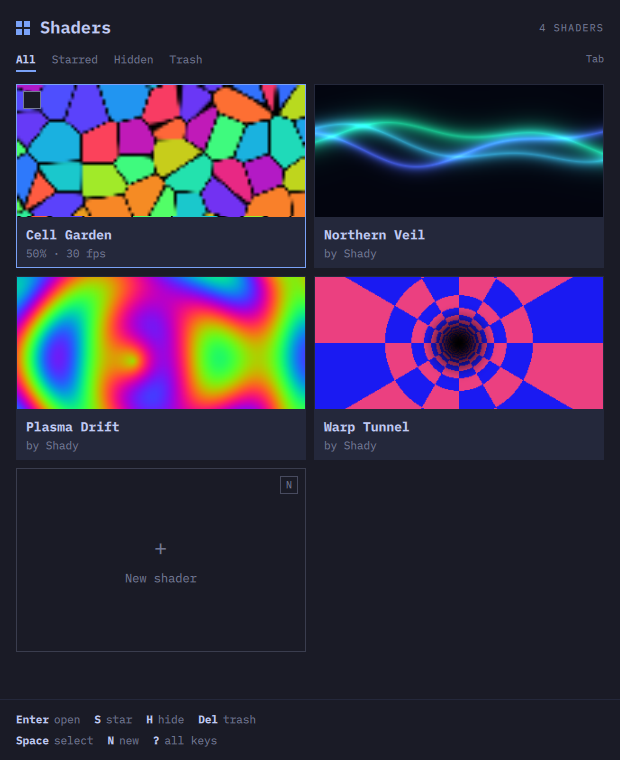
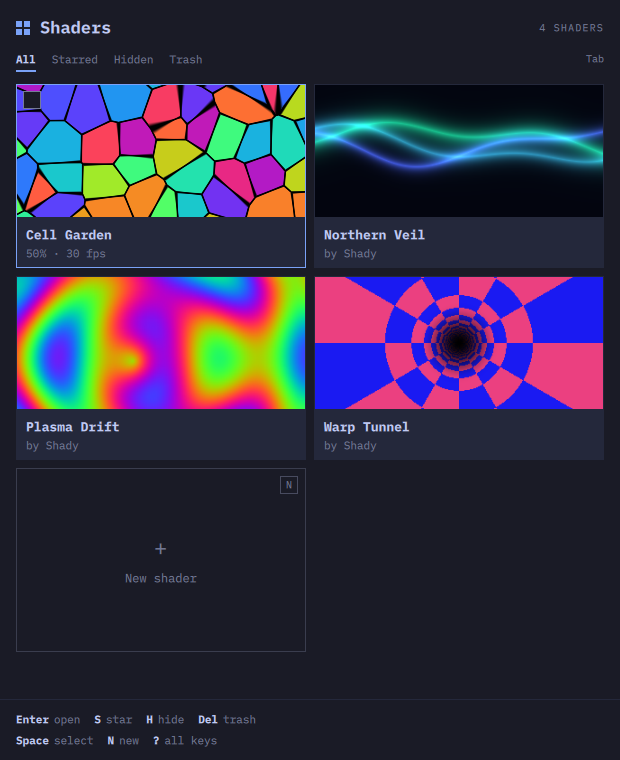
Doc shots: render the focused card at full quality with no hover, so docs/list.png is sharp

Changed region(s): [[0.0306, 0.0908, 0.4903, 0.3026], [0.2145, 0.2724, 0.2452, 0.3026], [0.0306, 0.1211, 0.0613, 0.1513]]

diff --git a/qml/Main.qml b/qml/Main.qml
@@ -12,6 +12,9 @@ Window {
     // Theme colors, crossfading over ~840 ms when the theme changes.
     QtObject {
         id: ui
+        objectName: "ui"
+        // --doc-shots only: the live card renders at full quality so README images are sharp.
+        property bool crisp: false
         property color bg: theme.background
         property color bg2: theme.lighterBackground
         property color fg: theme.foreground

diff --git a/qml/ShaderCard.qml b/qml/ShaderCard.qml
@@ -87,7 +87,7 @@ Item {
                 running: visible
                 source: visible ? card.shaderUrl : ""
                 channels: card.channels
-                quality: 0.35
+                quality: ui.crisp ? 1.0 : 0.35
                 fps: Math.min(30, card.fps)
                 // Resume where this card left off during this session.
                 onVisibleChanged: {

diff --git a/src/selftest.cpp b/src/selftest.cpp
@@ -14,6 +14,7 @@
 #include <QGuiApplication>
 #include <QImage>
 #include <QKeyEvent>
+#include <QMouseEvent>
 #include <QQuickItem>
 #include <QQuickWindow>
 #include <QStandardPaths>
@@ -932,6 +933,10 @@ void runDocShots(QQuickWindow *win, Library *lib, const QString &dir)
     QDir().mkpath(dir);
     auto *list = win->findChild<QQuickItem *>("list");
     auto *editor = win->findChild<QQuickItem *>("editor");
+    if (auto *ui = win->findChild<QObject *>("ui")) ui->setProperty("crisp", true);
+    // Pointer off the window: no hover state in the shot.
+    QMouseEvent leave(QEvent::Leave, QPointF(-10, -10), QPointF(-10, -10), Qt::NoButton, Qt::NoButton, Qt::NoModifier);
+    QCoreApplication::sendEvent(win, &leave);
     waitFor([&] { return lib->preparing() == 0; }, 60000);
     waitFor([] { return false; }, 1500);
     fits(win, "doc list");
